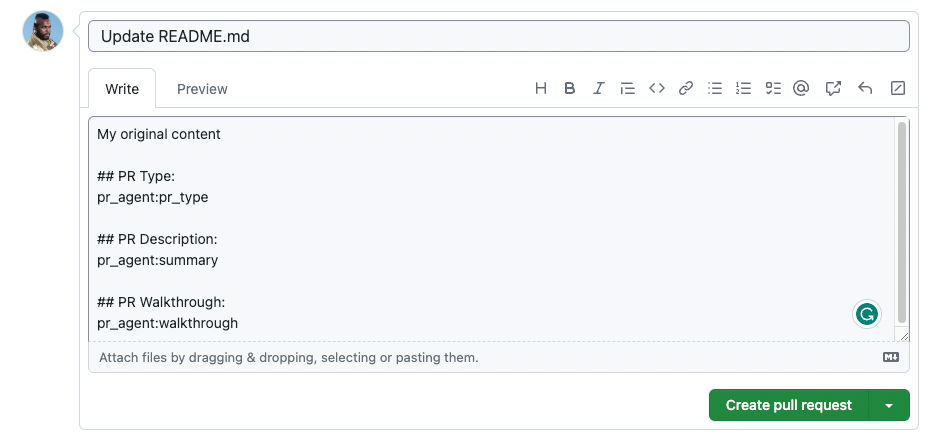
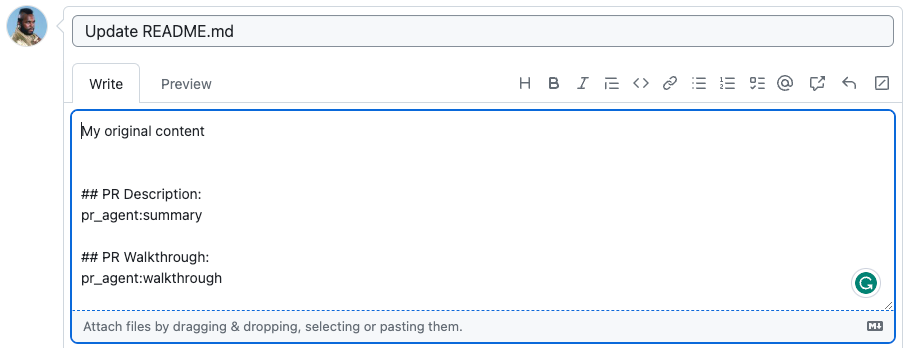
describe

Changed region(s): [[0.0, 0.0, 1.0, 1.0]]

diff --git a/pr_agent/tools/pr_description.py b/pr_agent/tools/pr_description.py
@@ -186,6 +186,11 @@ class PRDescription:
         else:
             ai_header = ""
 
+        ai_type = self.data.get('PR Type')
+        if ai_type and not re.search(r'<!--\s*pr_agent:type\s*-->', body):
+            pr_type = f"{ai_header}{ai_type}"
+            body = body.replace('pr_agent:type', pr_type)
+
         ai_summary = self.data.get('PR Description')
         if ai_summary and not re.search(r'<!--\s*pr_agent:summary\s*-->', body):
             summary = f"{ai_header}{ai_summary}"

diff --git a/docs/DESCRIBE.md b/docs/DESCRIBE.md
@@ -35,8 +35,6 @@ For example, if the PR original description was:
 ```
 User content...
 
-## PR Type:
-pr_agent:pr_type
 
 ## PR Description:
 pr_agent:summary
@@ -44,7 +42,7 @@ pr_agent:summary
 ## PR Walkthrough:
 pr_agent:walkthrough
 ```
-The marker `pr_agent:pr_type` will be replaced with the PR type, `pr_agent:summary` will be replaced with the PR summary, and `pr_agent:walkthrough` will be replaced with the PR walkthrough.
+The marker `pr_agent:summary` will be replaced with the PR summary, and `pr_agent:walkthrough` will be replaced with the PR walkthrough.
 
 ##### Example:
 ```